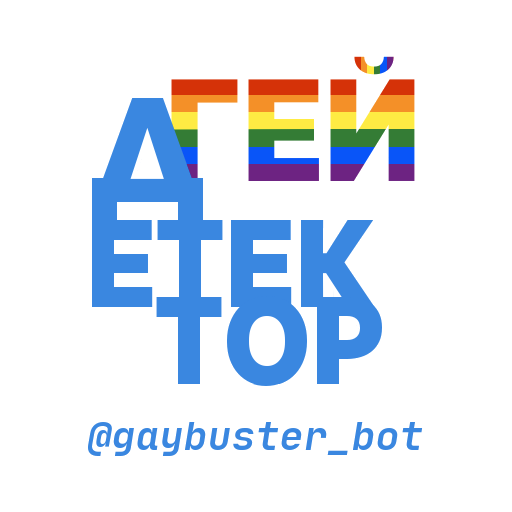
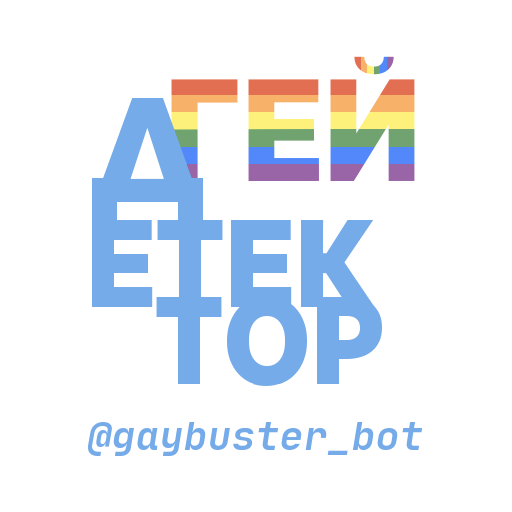
:sparkles: Add transparent wotermark

Changed region(s): [[0.1562, 0.0938, 0.8125, 0.7812], [0.1562, 0.8125, 0.6875, 0.9062], [0.6875, 0.8125, 0.8125, 0.875]]

diff --git a/telegram/app/utils/photo_utils.py b/telegram/app/utils/photo_utils.py
@@ -13,11 +13,12 @@ def prepare_photo(image_data: Union[bytes, BytesIO], faces: List[dict]) -> Bytes
     image = Image.open(image_data)
 
     watermark_size = image.size[0] // 6, image.size[1] // 6
-    position = random.choice(0, image.size[0] - watermark_size[0]), \
-        random.choice(0, image.size[1] - watermark_size[1])
+    watermark_position = random.randint(0, image.size[0] - watermark_size[0]), \
+        random.randint(0, image.size[1] - watermark_size[1])
     watermark = Image.open('./watermark.png')
     watermark.thumbnail(watermark_size, Image.ANTIALIAS)
-    image = Image.alpha_composite(image, watermark)
+    watermark.putalpha(128)
+    image.paste(watermark, watermark_position, watermark)
 
     draw = ImageDraw.Draw(image)
 
